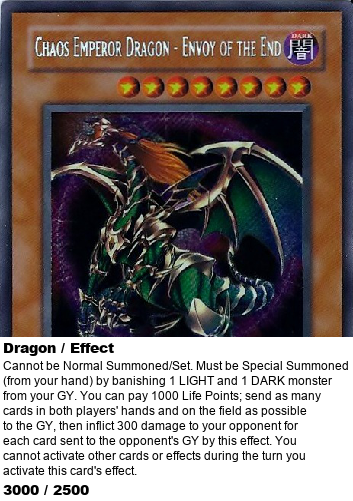
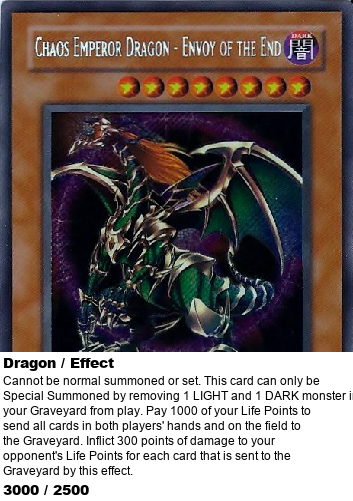
errata cards

Changed region(s): [[0.0, 0.6587, 1.0, 0.9581]]

diff --git a/pillow/changeCards.py b/pillow/changeCards.py
@@ -1,15 +1,15 @@
 import json, os
 from card import add_text, save_image
 
-path = os.path.join(os.path.dirname(__file__), 'cardlist.json')
+path = os.path.join(os.path.dirname(__file__), 'errata.json')
 data_file = open(path, 'r')
 data = json.load(data_file)
 
-# start = 0
-# keys = list(data.keys())
-# for i in range(start, len(keys)):
-#   print(i)
-#   name = keys[i]
-#   save_image(name, data[name], 'images', 'image-output')
+start = 0
+keys = list(data.keys())
+for i in range(start, len(keys)):
+  print(i)
+  name = keys[i]
+  save_image(name, data[name], 'images', 'image-output')
 
-save_image('Gene-Warped_Warwolf', data['Gene-Warped_Warwolf'], 'images', 'image-output')
+# save_image('Gene-Warped_Warwolf', data['Gene-Warped_Warwolf'], 'images', 'image-output')
